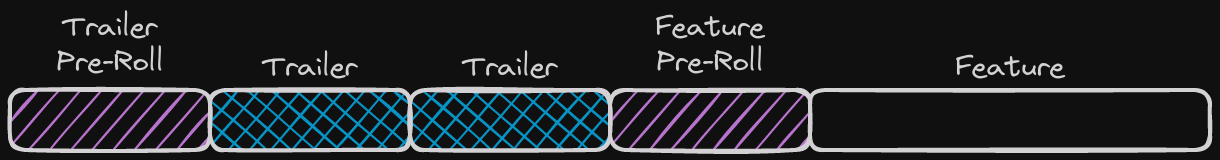
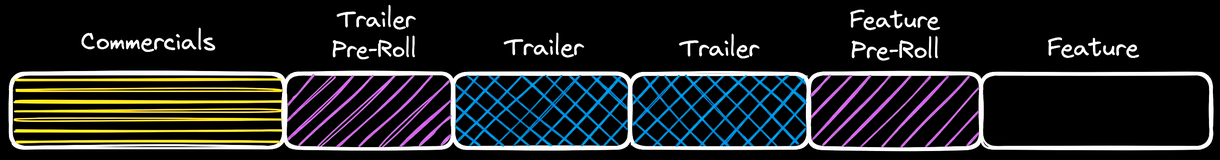
Adding a commercials library in front of the existing

diff --git a/Jellyfin.Plugin.CinemaMode/Configuration/config.html b/Jellyfin.Plugin.CinemaMode/Configuration/config.html
@@ -15,7 +15,7 @@
                     <div class="verticalSection">
                         <p>
                             This plugin allows users to enable Jellyfin's Cinema Mode functionality to play intro
-                            content before movies. The plugin supports three types of intros: Trailer Pre-Rolls,
+                            content before movies. The plugin supports four types of intros: Commercials, Trailer Pre-Rolls,
                             Trailers, and Feature Pre-Rolls. Each of these can be configured/turned off in the sections 
                             below. All of this can be disabled at the user level by turning off Cinema Mode in the users 
                             Playback settings. For more information, access the user guide via the above help button. 
@@ -24,13 +24,69 @@
                         <div>
                             <img alt="Cinema Mode Diagram" width="800" height="auto" src="https://github.com/CherryFloors/jellyfin-plugin-cinemamode/raw/main/Jellyfin.Plugin.CinemaMode/Images/cinema-mode-diagram.png"/>
                             <div class="fieldDescription">
-                                Diagram illustrating the order in which the three intro types (Trailer Pre-Rolls,
+                                Diagram illustrating the order in which the four intro types (Commercials, Trailer Pre-Rolls,
                                 Trailers, and Feature Pre-Rolls) will be shown
                             </div>
                         </div>
                         <br/>
                     </div>
                     
+                    <!-- Commercials -->
+                    <fieldset class="verticalSection verticalSection-extrabottompadding">
+                        <legend>
+                            <h3 class="sectionTitle">Commercials</h3>
+                        </legend>
+                        <div class="selectContainer selectLibrary flex-shrink-zero">
+                            <label class="selectLabel" for="commercialsLibrarySelect">Commercials Library</label>
+                            <select is="emby-select" class="emby-select-withcolor emby-select" label="" id="commercialsLibrarySelect">
+                            </select>
+                            <div class="selectArrowContainer">
+                                <div style="visibility:hidden;display:none;">0</div>
+                                <span class="selectArrow material-icons keyboard_arrow_down" aria-hidden="true"></span>
+                            </div>
+                            <div class="fieldDescription">
+                                Library containing media to play before trailer pre-rolls. Setting this to "-" will
+                                disable this section.
+                            </div>
+                        </div>
+                        <div class="inputContainer">
+                            <label class="inputLabel inputLabelUnfocused" for="number-commercials">Number of Commercials</label>
+                            <input type="number" id="number-commercials" name="number-commercials" min="0" is="emby-input" />
+                            <div class="fieldDescription">
+                                The number of commercials to play. Setting this to 0 will turn this section off.
+                            </div>
+                        </div>
+                        <div class="sectionTitleContainer flex align-items-center">
+                            <h4 class="sectionTitle">Selection Rules</h4>
+                            <button onclick="addPreRollRule('commercials-rules')" is="emby-button" type="button" class="fab emby-button" style="margin-left:1em" title="Add">
+                                <span class="material-icons add" aria-hidden="true"></span>
+                            </button>
+                            <a is="emby-linkbutton" rel="noopener noreferrer" class="raised button-alt headerHelpButton emby-button" target="_blank" href="https://github.com/CherryFloors/jellyfin-plugin-cinemamode#pre-rolls">
+                                Help
+                            </a>
+                        </div>
+                        <div class="paperList folderList" id="commercials-rules" style="margin-bottom:2em">
+                        </div>
+                        <div class="checkboxContainer checkboxContainer-withDescription">
+                            <label>
+                                <input is="emby-checkbox" type="checkbox" id="ignore-out-of-season-commercials" name="ignore-out-of-season-commercials" />
+                                <span>Ignore Out Of Season</span>
+                            </label>
+                            <div class="fieldDescription checkboxFieldDescription">
+                                Ignore any commercial that has a seasonal tag not currently in season.
+                            </div>
+                        </div>
+                        <div class="checkboxContainer checkboxContainer-withDescription">
+                            <label>
+                                <input is="emby-checkbox" type="checkbox" id="enforce-rating-limit-commercials" name="enforce-rating-limit-commercials" />
+                                <span>Enforce Rating Limit</span>
+                            </label>
+                            <div class="fieldDescription checkboxFieldDescription">
+                                Commercials assigned a rating will not be selected if they exceed the feature's rating.
+                            </div>
+                        </div>
+                    </fieldset>
+
                     <!-- Pre Roll: Trailers -->
                     <fieldset class="verticalSection verticalSection-extrabottompadding">
                         <legend>
@@ -472,7 +528,9 @@
             $('.cinemaModeConfigurationPage').on('pageshow', function () {
                 Dashboard.showLoadingMsg();
                 clearList('trailerPreRollLibrarySelect');
+                clearList('commercialsLibrarySelect');
                 clearList('featurePreRollLibrarySelect');
+                clearList('commercials-rules');
                 clearList('trailer-pre-roll-rules');
                 clearList('feature-pre-roll-rules');
                 clearList('trailer-rules');
@@ -480,15 +538,20 @@
                 var page = this;
                 ApiClient.getPluginConfiguration(pluginId).then(function (config) {
                     $('#number-trailers', page).val(config.NumberOfTrailers);
+                    $('#number-commercials', page).val(config.NumberOfCommercials);
                     document.getElementById('enforce-rating-limit-trailers').checked = config.EnforceRatingLimitTrailers;
+                    initLibrarySelector('commercialsLibrarySelect', config.CommercialsLibrary, config.CommercialsLibrary);
                     initLibrarySelector('trailerPreRollLibrarySelect', config.TrailerPreRollsLibrary, config.TrailerPreRollsLibrary);
                     initLibrarySelector('featurePreRollLibrarySelect', config.FeaturePreRollsLibrary, config.FeaturePreRollsLibrary);
+                    initPreRollRules('commercials-rules', config.CommercialsSelections);
                     initPreRollRules('trailer-pre-roll-rules', config.TrailerPreRollsSelections);
                     initPreRollRules('feature-pre-roll-rules', config.FeaturePreRollsSelections);
 
                     document.getElementById('enforce-rating-limit-trailer-pre-rolls').checked = config.TrailerPreRollsRatingLimit;
+                    document.getElementById('enforce-rating-limit-commercials').checked = config.CommercialsRatingLimit;
                     document.getElementById('enforce-rating-limit-feature-pre-rolls').checked = config.FeaturePreRollsRatingLimit;
                     document.getElementById('ignore-out-of-season-trailer-pre-rolls').checked = config.TrailerPreRollsIgnoreOutOfSeason;
+                    document.getElementById('ignore-out-of-season-commercials').checked = config.CommercialsIgnoreOutOfSeason;
                     document.getElementById('ignore-out-of-season-feature-pre-rolls').checked = config.FeaturePreRollsIgnoreOutOfSeason;
                     document.getElementById('trailer-rules-consume-mode').checked = config.TrailerConsumeMode;
 
@@ -502,21 +565,28 @@
                 Dashboard.showLoadingMsg();
 
                 var TrailerPreRollsLibrary = $('#trailerPreRollLibrarySelect').val();
+                var CommercialsLibrary = $('#commercialsLibrarySelect').val();
                 var FeaturePreRollsLibrary = $('#featurePreRollLibrarySelect').val();
                 var NumberOfTrailers = $('#number-trailers').val();
+                var NumberOfCommercials = $('#number-commercials').val();
                 ApiClient.getPluginConfiguration(pluginId).then(function (config) {
 
                     config.TrailerPreRollsLibrary = TrailerPreRollsLibrary;
+                    config.CommercialsLibrary = CommercialsLibrary;
                     config.FeaturePreRollsLibrary = FeaturePreRollsLibrary;
+                    config.CommercialsSelections = getPreRollRules('commercials-rules');
                     config.TrailerPreRollsSelections = getPreRollRules('trailer-pre-roll-rules');
                     config.FeaturePreRollsSelections = getPreRollRules('feature-pre-roll-rules');
                     config.TrailerPreRollsRatingLimit = document.getElementById('enforce-rating-limit-trailer-pre-rolls').checked;
+                    config.CommercialsRatingLimit = document.getElementById('enforce-rating-limit-commercials').checked;
                     config.FeaturePreRollsRatingLimit = document.getElementById('enforce-rating-limit-feature-pre-rolls').checked;
                     config.TrailerPreRollsIgnoreOutOfSeason = document.getElementById('ignore-out-of-season-trailer-pre-rolls').checked;
+                    config.CommercialsIgnoreOutOfSeason = document.getElementById('ignore-out-of-season-commercials').checked;
                     config.FeaturePreRollsIgnoreOutOfSeason = document.getElementById('ignore-out-of-season-feature-pre-rolls').checked;
                     config.SeasonalTagDefinitions = getSeasonalTagDefs();
                     config.TrailerSelectionRules = getTrailerRules();
                     config.NumberOfTrailers = parseInt(NumberOfTrailers);
+                    config.NumberOfCommercials = parseInt(NumberOfCommercials);
                     config.EnforceRatingLimitTrailers = document.getElementById('enforce-rating-limit-trailers').checked;
                     config.TrailerConsumeMode = document.getElementById('trailer-rules-consume-mode').checked;
 

diff --git a/Jellyfin.Plugin.CinemaMode/IntroManager.cs b/Jellyfin.Plugin.CinemaMode/IntroManager.cs
@@ -1,8 +1,7 @@
 using System;
 using System.Collections.Generic;
 using System.Linq;
-using Jellyfin.Database.Implementations.Entities;
-using MediaBrowser.Model.Entities;
+using Jellyfin.Data.Entities;
 using MediaBrowser.Controller.Entities;
 using MediaBrowser.Controller.Entities.Movies;
 using MediaBrowser.Controller.Library;
@@ -17,6 +16,7 @@ namespace Jellyfin.Plugin.CinemaMode
 
     enum PreRollType
     {
+        Commercials,
         TrailerPreRoll,
         FeaturePreRoll,
     }
@@ -43,7 +43,15 @@ namespace Jellyfin.Plugin.CinemaMode
             this.User = User;
             this.Logger = logger;
 
-            if (Category == PreRollType.TrailerPreRoll)
+            if (Category == PreRollType.Commercials)
+            {
+                this.PreRollLibrary = Config.CommercialsLibrary;
+                this.PreRollsSelections = Config.CommercialsSelections;
+                this.EnforceRatingLimit = Config.CommercialsRatingLimit;
+                this.SeasonalTagDefinitions = Config.SeasonalTagDefinitions;
+                this.IgnoreOutOfSeason = Config.CommercialsIgnoreOutOfSeason;
+            }
+            else if (Category == PreRollType.TrailerPreRoll)
             {
                 this.PreRollLibrary = Config.TrailerPreRollsLibrary;
                 this.PreRollsSelections = Config.TrailerPreRollsSelections;
@@ -147,7 +155,7 @@ namespace Jellyfin.Plugin.CinemaMode
 
             if (this.EnforceRatingLimit)
             {
-                query.MaxParentalRating = this.Feature.GetParentalRatingScore();
+                query.MaxParentalRating = this.Feature.InheritedParentalRatingValue;
             }
 
             if (SelectionConfig == null)
@@ -216,29 +224,54 @@ namespace Jellyfin.Plugin.CinemaMode
             return items.OfType<Movie>().ToList();
         }
 
-        public IntroInfo? GetPreRoll()
+        public IEnumerable<IntroInfo> GetPreRolls(int numberOfPreRolls)
         {
+            if (numberOfPreRolls <= 0)
+            {
+                yield break;
+            }
+
+            HashSet<Guid> selectedPreRollIds = new HashSet<Guid>();
+            int returned = 0;
             List<Movie> preRolls;
             foreach (PreRollSelectionConfig SelectConfig in this.PreRollsSelections)
             {
                 preRolls = QueryPreRolls(SelectConfig);
-                if (preRolls.Count > 0) {
+                while (preRolls.Count > 0 && returned < numberOfPreRolls)
+                {
                     int idx = this.RNG.Next(preRolls.Count);
-                    Video preRoll = preRolls.ElementAt(idx);
-                    return new IntroInfo { ItemId = preRoll.Id, Path = preRoll.Path };
+                    Movie preRoll = preRolls[idx];
+                    preRolls.RemoveAt(idx);
+                    if (selectedPreRollIds.Add(preRoll.Id))
+                    {
+                        yield return new IntroInfo { ItemId = preRoll.Id, Path = preRoll.Path };
+                        returned++;
+                    }
+                }
+
+                if (returned == numberOfPreRolls)
+                {
+                    yield break;
                 }
             }
 
             preRolls = QueryPreRolls(null);
-            if (preRolls.Count > 0) {
+            while (preRolls.Count > 0 && returned < numberOfPreRolls)
+            {
                 int idx = this.RNG.Next(preRolls.Count);
-                Video preRoll = preRolls.ElementAt(idx);
-                return new IntroInfo { ItemId = preRoll.Id, Path = preRoll.Path };
+                Movie preRoll = preRolls[idx];
+                preRolls.RemoveAt(idx);
+                if (selectedPreRollIds.Add(preRoll.Id))
+                {
+                    yield return new IntroInfo { ItemId = preRoll.Id, Path = preRoll.Path };
+                    returned++;
+                }
             }
 
-            this.Logger.LogInformation($"|jellyfin-cinema-mode| No Pre-Rolls Type: {this.Category} User: {this.User}");
-            return null;
-
+            if (returned == 0)
+            {
+                this.Logger.LogInformation($"|jellyfin-cinema-mode| No Pre-Rolls Type: {this.Category} User: {this.User}");
+            }
         }
     }
 
@@ -276,13 +309,16 @@ namespace Jellyfin.Plugin.CinemaMode
             baseQuery.ExcludeItemIds = this.ShownTrailers.ToArray();
 
             if (this.Config.EnforceRatingLimitTrailers)
-            {
-                baseQuery.HasOfficialRating = true;
-                baseQuery.HasParentalRating = true;
-                baseQuery.MinParentalRating = new ParentalRatingScore(0, 0);
-                baseQuery.MaxParentalRating = this.Feature.GetParentalRatingScore();
-            }
-
+                {
+                    baseQuery.HasOfficialRating = true;
+                    baseQuery.HasParentalRating = true;
+                    
+                    // Für Jellyfin 10.10.7 weisen wir hier einfach die Zahl 0 zu statt des neuen Objekts
+                    baseQuery.MinParentalRating = 0; 
+                    
+                    baseQuery.MaxParentalRating = this.Feature.InheritedParentalRatingValue;
+                }
+                
             baseQuery.IsPlayed = IsPlayed;
 
             return baseQuery;
@@ -437,13 +473,33 @@ namespace Jellyfin.Plugin.CinemaMode
         public IEnumerable<IntroInfo> Get(BaseItem item, User user)
         {
 
+            if (Plugin.Instance.Configuration.CommercialsLibrary != "-" && Plugin.Instance.Configuration.NumberOfCommercials > 0)
+            {
+                List<IntroInfo> commercials = new List<IntroInfo>();
+                try
+                {
+                    PreRollSelector preRollSelector = new PreRollSelector(PreRollType.Commercials, item, user, Plugin.Instance.Configuration, this.Logger);
+                    commercials = preRollSelector.GetPreRolls(Plugin.Instance.Configuration.NumberOfCommercials).ToList();
+                }
+                catch (System.Exception e)
+                {
+                    this.Logger.LogError("|jellyfin-cinema-mode| Exception encountered fetching Commercials");
+                    this.Logger.LogError(e.StackTrace);
+                }
+
+                foreach (IntroInfo commercial in commercials)
+                {
+                    yield return commercial;
+                }
+            }
+
             if (Plugin.Instance.Configuration.TrailerPreRollsLibrary != "-")
             {
                 IntroInfo? trailerPreRoll = null;
                 try
                 {
                     PreRollSelector preRollSelector = new PreRollSelector(PreRollType.TrailerPreRoll, item, user, Plugin.Instance.Configuration, this.Logger);
-                    trailerPreRoll = preRollSelector.GetPreRoll();
+                    trailerPreRoll = preRollSelector.GetPreRolls(1).FirstOrDefault();
                 }
                 catch (System.Exception e)
                 {
@@ -483,7 +539,7 @@ namespace Jellyfin.Plugin.CinemaMode
                 try
                 {
                     PreRollSelector preRollSelector = new PreRollSelector(PreRollType.FeaturePreRoll, item, user, Plugin.Instance.Configuration, this.Logger);
-                    featurePreRoll = preRollSelector.GetPreRoll();
+                    featurePreRoll = preRollSelector.GetPreRolls(1).FirstOrDefault();
                 }
                 catch (System.Exception e)
                 {

diff --git a/Jellyfin.Plugin.CinemaMode/Configuration/PluginConfiguration.cs b/Jellyfin.Plugin.CinemaMode/Configuration/PluginConfiguration.cs
@@ -61,32 +61,42 @@ namespace Jellyfin.Plugin.CinemaMode.Configuration
 
     public class PluginConfiguration : BasePluginConfiguration
     {
+        public string CommercialsLibrary { get; set; }
         public string TrailerPreRollsLibrary { get; set; }
         public string FeaturePreRollsLibrary { get; set; }
+        public List<PreRollSelectionConfig> CommercialsSelections { get; set; }
         public List<PreRollSelectionConfig> FeaturePreRollsSelections { get; set; }
         public List<PreRollSelectionConfig> TrailerPreRollsSelections { get; set; }
+        public bool CommercialsRatingLimit { get; set; }
         public bool TrailerPreRollsRatingLimit { get; set; }
         public bool FeaturePreRollsRatingLimit { get; set; }
+        public bool CommercialsIgnoreOutOfSeason { get; set; }
         public bool TrailerPreRollsIgnoreOutOfSeason { get; set; }
         public bool FeaturePreRollsIgnoreOutOfSeason { get; set; }
         public List<SeasonalTagDefinition> SeasonalTagDefinitions { get; set; }
         public List<TrailerSelectionConfig> TrailerSelectionRules { get; set; }
         public bool EnforceRatingLimitTrailers { get; set; }
+        public int NumberOfCommercials { get; set; }
         public int NumberOfTrailers { get; set; }
         public bool TrailerConsumeMode { get; set; }
 
         public PluginConfiguration()
         {
+            CommercialsLibrary = "-";
             TrailerPreRollsLibrary = "-";
             FeaturePreRollsLibrary = "-";
+            CommercialsSelections = new List<PreRollSelectionConfig>();
             TrailerPreRollsSelections = new List<PreRollSelectionConfig>();
             FeaturePreRollsSelections = new List<PreRollSelectionConfig>();
+            CommercialsRatingLimit = true;
             TrailerPreRollsRatingLimit = true;
             FeaturePreRollsRatingLimit = true;
+            CommercialsIgnoreOutOfSeason = true;
             TrailerPreRollsIgnoreOutOfSeason = true;
             FeaturePreRollsIgnoreOutOfSeason = true;
             SeasonalTagDefinitions = new List<SeasonalTagDefinition>();
             TrailerSelectionRules = new List<TrailerSelectionConfig>();
+            NumberOfCommercials = 1;
             NumberOfTrailers = 2;
             EnforceRatingLimitTrailers = true;
             TrailerConsumeMode = false;

diff --git a/Jellyfin.Plugin.CinemaMode/IntroProvider.cs b/Jellyfin.Plugin.CinemaMode/IntroProvider.cs
@@ -1,7 +1,7 @@
 using System.Collections.Generic;
 using System.Linq;
 using System.Threading.Tasks;
-using Jellyfin.Database.Implementations.Entities;
+using Jellyfin.Data.Entities;
 using MediaBrowser.Controller.Entities;
 using MediaBrowser.Controller.Library;
 using Microsoft.Extensions.Logging;

diff --git a/README.md b/README.md
@@ -53,10 +53,11 @@ Jellyfin does not currently have a "Pre-Rolls" content type so the "Movies" cont
 supports playback of Pre-Rolls organized in libraries of this content type. The "Movies" content type allows for adding
 metadata (Tags, Genre, Studios) to apply [Selection Rules](#selection-rules) based on the feature they will play before.
 
-The plugin supports two types of Pre-Rolls, 'Trailer Pre-Roll' and 'Feature Pre-Roll'. The 'Trailer Pre-Roll' type is
-meant to play prior to a block of trailers (think "Now playing on Jellyfin"). The 'Feature Pre-Roll' type is meant
-to be the last intro played right before the movie (think "Now your feature presentation"). It is recommended that two
-different libraries are used for storage, one for 'Trailer Pre-Rolls' and one for 'Feature Pre-Rolls'.
+The plugin supports three types of Pre-Rolls: 'Commercials', 'Trailer Pre-Roll', and 'Feature Pre-Roll'. Commercials
+play first, followed by the Trailer Pre-Roll, the block of trailers, and finally the Feature Pre-Roll. The number of
+commercials to play can be configured independently and is limited to the number of eligible commercials available.
+This allows commercial content to be kept separate from trailer pre-rolls while using the same metadata-based selection rules.
+It is recommended that separate libraries are used for each Pre-Roll type.
 
 #### Pre-Roll Library
 
